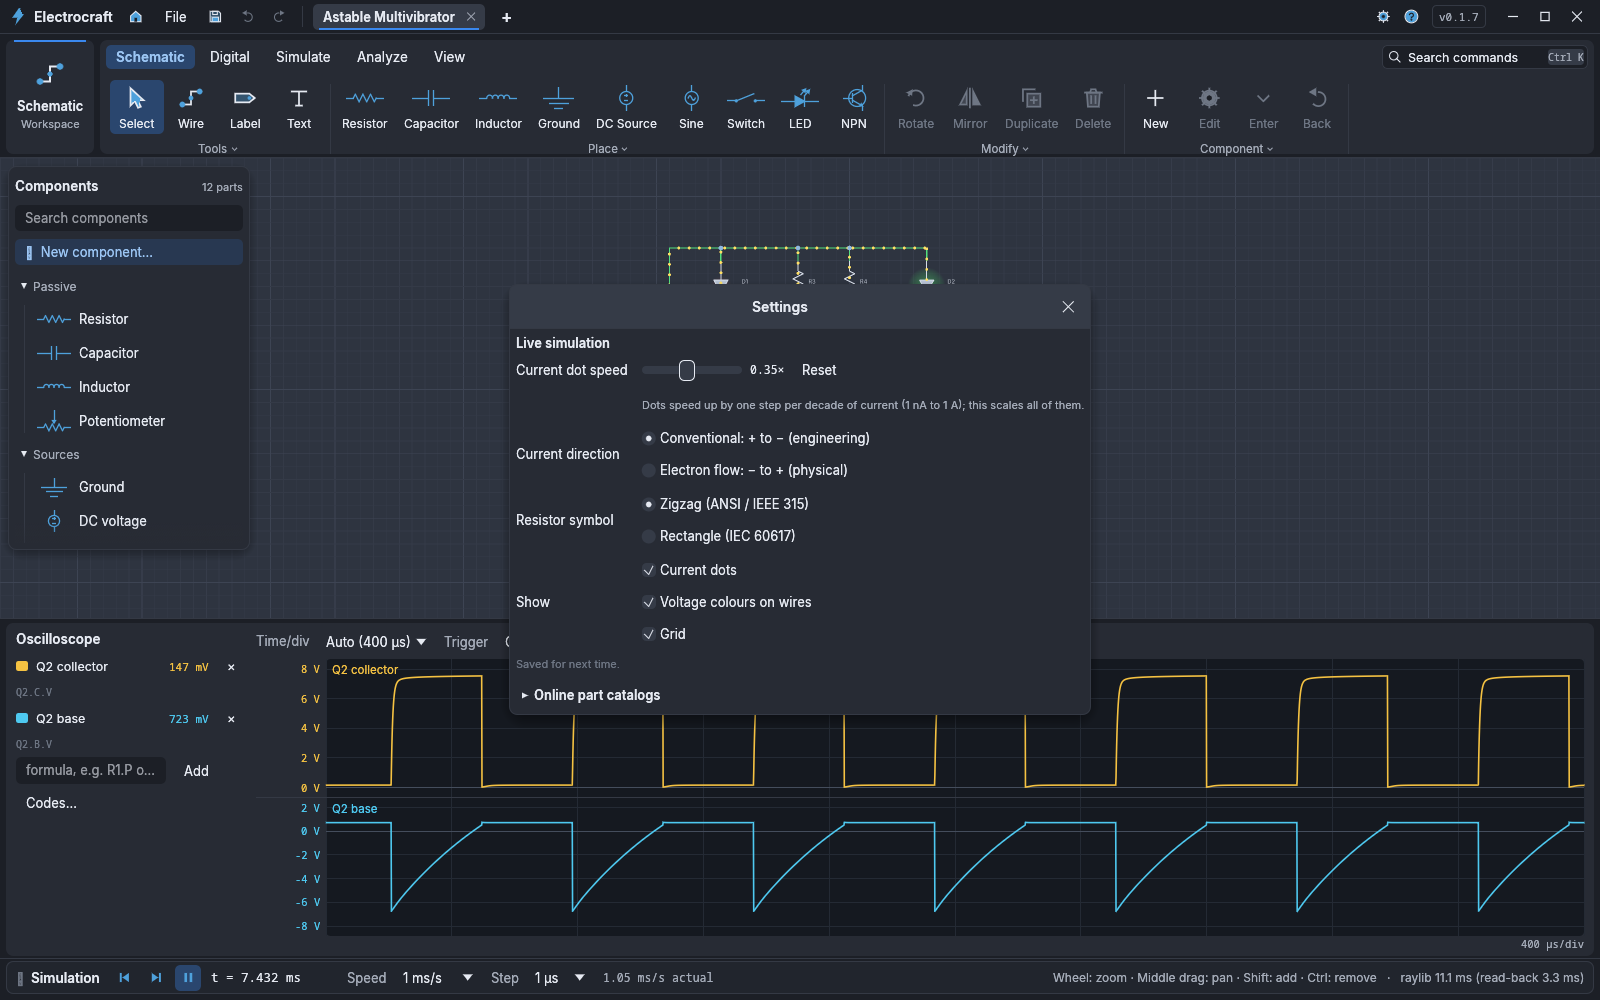
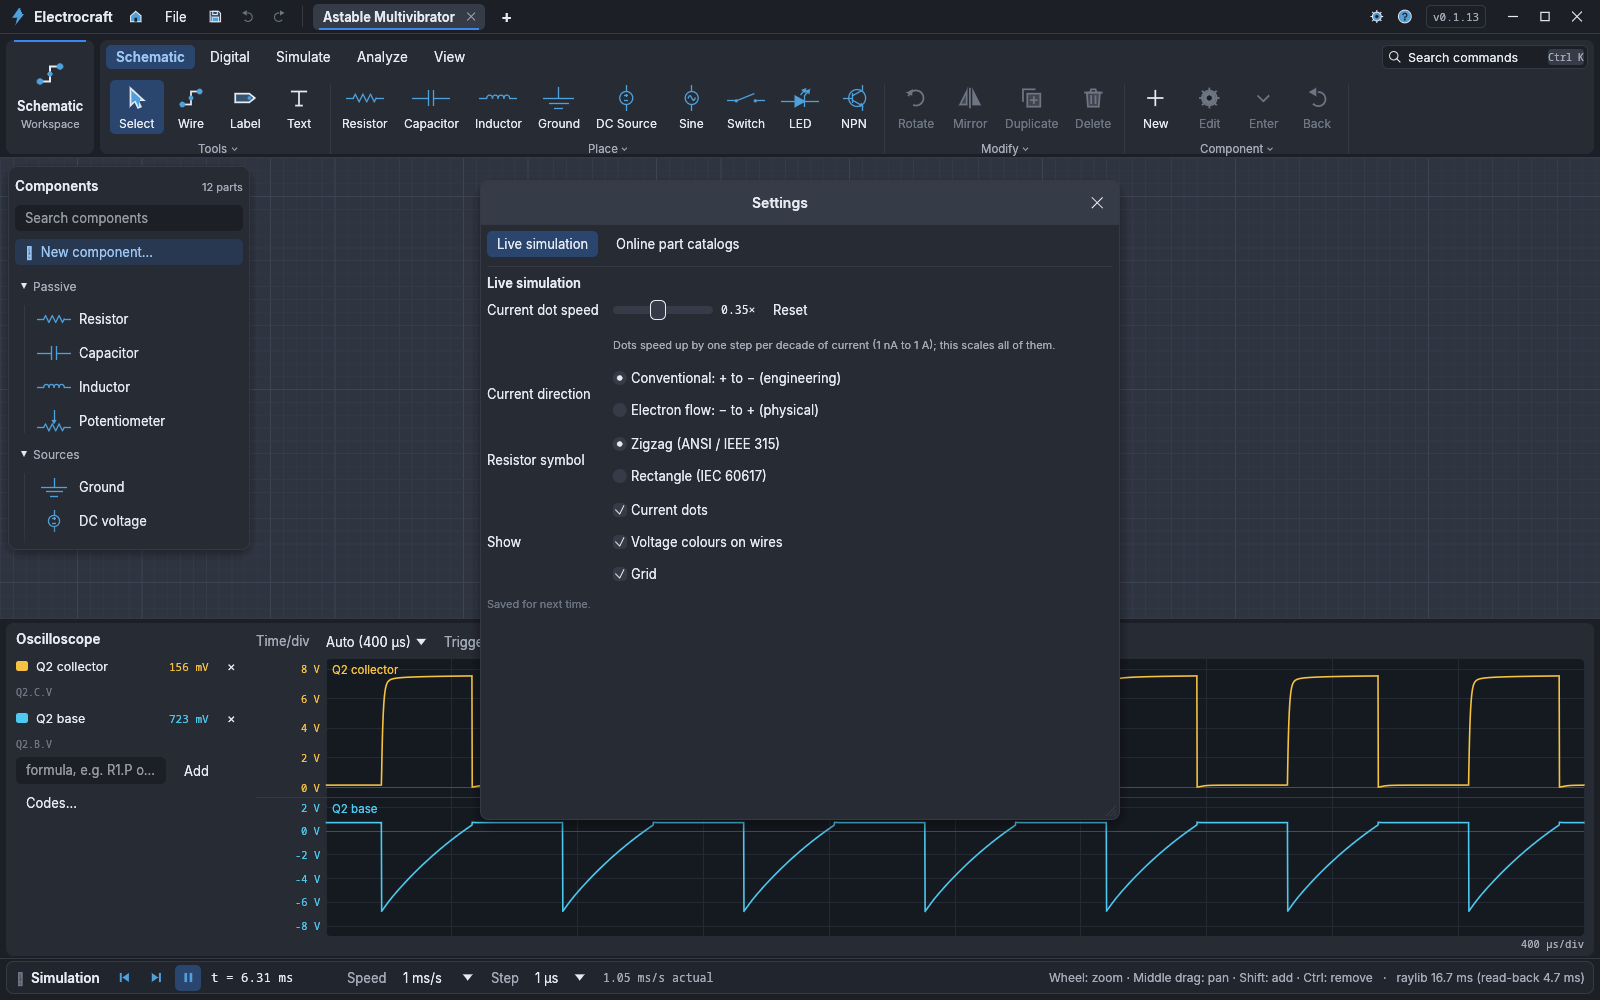
fix: give catalog settings a full-height tab in a resizable dialog; 0.1.13

diff --git a/crates/ecs-app/src/chrome.rs b/crates/ecs-app/src/chrome.rs
@@ -2278,14 +2278,35 @@ impl App {
             "settings" => "Settings",
             _ => "Problems",
         };
-        egui::Window::new(RichText::new(title).font(theme::bold(14.0)))
+        let mut window = egui::Window::new(RichText::new(title).font(theme::bold(14.0)))
             .open(&mut open)
             .collapsible(false)
-            .resizable(false)
-            .anchor(Align2::CENTER_CENTER, vec2(0.0, 0.0))
-            .show(ctx, |ui| match which {
+            .resizable(which == "settings")
+            .anchor(Align2::CENTER_CENTER, vec2(0.0, 0.0));
+        if which == "settings" {
+            window = window
+                .default_size(vec2(640.0, 640.0))
+                .min_size(vec2(520.0, 360.0));
+        }
+        window.show(ctx, |ui| match which {
                 "settings" => {
-                    ui.set_width(380.0);
+                    let page_id = ui.make_persistent_id("settings_catalogs");
+                    let mut catalogs = ui.data_mut(|data| data.get_temp::<bool>(page_id).unwrap_or(false));
+                    ui.horizontal(|ui| {
+                        ui.selectable_value(&mut catalogs, false, "Live simulation");
+                        ui.selectable_value(&mut catalogs, true, "Online part catalogs");
+                    });
+                    ui.data_mut(|data| data.insert_temp(page_id, catalogs));
+                    ui.separator();
+                    // Each page gets the full remaining height, including on small screens.
+                    egui::ScrollArea::vertical()
+                        .id_salt(("settings-page", catalogs))
+                        .auto_shrink([false, false])
+                        .show(ui, |ui| {
+                    if catalogs {
+                        self.catalog_settings(ui);
+                        return;
+                    }
                     ui.label(RichText::new("Live simulation").font(theme::bold(13.0)));
                     let before = (self.settings.clone(), self.grid, self.volt_colors, self.current_dots);
                     egui::Grid::new("settings").num_columns(2).spacing(vec2(14.0, 8.0)).show(ui, |ui| {
@@ -2330,12 +2351,7 @@ impl App {
                     }
                     ui.add_space(4.0);
                     ui.label(RichText::new("Saved for next time.").color(c::TEXT_FAINT).small());
-                    ui.add_space(6.0);
-                    egui::CollapsingHeader::new(RichText::new("Online part catalogs").font(theme::bold(13.0)))
-                        .default_open(self.settings.catalogs.master)
-                        .show(ui, |ui| {
-                            egui::ScrollArea::vertical().max_height(440.0).show(ui, |ui| self.catalog_settings(ui));
-                        });
+                    });
                 }
                 "about" => {
                     ui.set_width(380.0);

diff --git a/scripts/capture_screenshots.py b/scripts/capture_screenshots.py
@@ -197,6 +197,18 @@ def main():
         s.shot("29-settings.png", wait=2.0)
         s.close()
 
+        # Full-height catalog settings with provider options, without any search.
+        cfg = home / ".config" / "electrocraft"
+        cfg.mkdir(parents=True, exist_ok=True)
+        (cfg / "settings.json").write_text(json.dumps({"catalogs": {
+            "master": True, "enabled": ["jlcpcb", "digikey", "mouser", "tme", "farnell"]}}))
+        s = run("--sample", "astable", commands=[{"id": "app.settings", "args": {}}])
+        s.x("mousemove", 675, 244, "click", 1)
+        s.x("mousemove", 1300, 860)
+        s.shot("36-settings-catalogs.png", wait=1.0)
+        s.close()
+        (cfg / "settings.json").unlink()
+
         # Microcontroller: the PIC sample and its program editor.
         s = run("--sample", "pic-blink")
         s.x("mousemove", 1500, 900)

diff --git a/ELECTROCRAFT-PLAN.SPEC.md b/ELECTROCRAFT-PLAN.SPEC.md
@@ -538,7 +538,7 @@ The shell copies SolidCraft's structure and palette so the Craft apps feel like 
 - **Navigation toolbar** (floating, bottom centre of the canvas): Select, Pan, Wire · Fit, Zoom in, Zoom out · Grid, Voltage colours, Current dots.
 - **Simulation bar** (bottom, in the place of SolidCraft's History bar): Reset, Step, Run/Pause, simulated time, speed and time step pickers, achieved speed, a problems button, and on the right the tool hint (Wirecraft style) and canvas render timing.
 - **Scope** (9.5): docked at the bottom above the Simulation bar (resizable), or floating in its own resizable window, whenever it has channels.
-- **Settings** (gear icon, `app.settings`): current dot speed (logarithmic slider, `view.dot_speed`), **current direction** (conventional + to −, the default, or electron flow − to +), **resistor symbol** (ANSI/IEEE 315 zigzag or IEC 60617 rectangle, also for the potentiometer; pins unchanged), current dots, voltage colours and grid; kept in `settings.json` in the config folder, as are the ribbon toggles. ![Settings](docs/screenshots/29-settings.png)
+- **Settings** (gear icon, `app.settings`): a resizable dialog with **Live simulation** and **Online part catalogs** tabs. Each tab uses the full remaining height with its own scrolling; catalog credentials and provider options no longer share a short nested list below simulation controls. Live simulation includes current dot speed (logarithmic slider, `view.dot_speed`), **current direction** (conventional + to −, the default, or electron flow − to +), **resistor symbol** (ANSI/IEEE 315 zigzag or IEC 60617 rectangle, also for the potentiometer; pins unchanged), current dots, voltage colours and grid; kept in `settings.json` in the config folder, as are the ribbon toggles. ![Settings](docs/screenshots/29-settings.png)
 - **Documents and tabs:** New, Open, recent files and samples always open a new tab; opening a file that is already open switches to its tab. Each tab keeps its own document, undo history, selection, view, scope channels and settings, and component-editing stack. Only the shown tab simulates: switching restarts that tab's simulation from its operating point. Closing a modified tab asks Save / Discard / Cancel; quitting lists every modified document and offers **Save All**. Closing the last tab returns to the Start screen. (`DocTab` in `crates/ecs-app/src/app.rs`; a test opens, edits, switches, closes and reopens tabs.)
 - **Start screen** (Home, Esc returns to the document): blue sidebar (Back to document, Start, New, Open, Save, Save As, Export netlist, Keyboard shortcuts, About), and New cards, Recent files and Samples with live-rendered thumbnails.
 - **Command palette** (`Ctrl+K`): every command and every component, filtered as you type, arrow keys and Enter.
@@ -645,7 +645,7 @@ All actions are `Cmd`s with a stable id and JSON arguments in one registry (`cra
 
 ### 9.8 Online part catalogs (D17–D19, add-on spec ADD-01)
 
-- **Settings › Online part catalogs:** "Allow online part catalogs" (off by default) and one switch per provider. Turning a provider on first shows what will be sent and to whom, with its terms; Cancel leaves it off. Per provider: credential fields saved to the system keychain (Forget removes them), region or store (DigiKey `site,currency`, TME `country,currency,language`, Farnell store id), Delete cached data, and the attribution its terms require. JLCPCB can also search a downloaded jlcparts `cache.sqlite3` offline. Turning anything off cancels requests in flight. Nothing is contacted while the switches are off; the worker thread is not even started.
+- **Settings › Online part catalogs:** "Allow online part catalogs" (off by default) and one switch per provider. Turning a provider on first shows what will be sent and to whom, with its terms; Cancel leaves it off. Per provider: credential fields saved to the system keychain (Forget removes them), region or store (DigiKey `site,currency`, TME `country,currency,language`, Farnell store id), Delete cached data, and the attribution its terms require. JLCPCB can also search a downloaded jlcparts `cache.sqlite3` offline. Turning anything off cancels requests in flight. Nothing is contacted while the switches are off; the worker thread is not even started. ![Catalog settings](docs/screenshots/36-settings-catalogs.png)
 - **Parts panel** (File › Parts Catalogs…, `parts.open`): provider selector (one provider, or *All enabled* grouped by manufacturer part number with each source kept distinct), search text, filters (category, package, in stock, active only, one parametric range in engineering notation), per-provider counts and errors inline, a results table (vendor, part and order code, stock, unit price, lifecycle or JLC basic/extended, manufacturer, description) and a detail pane (prices, normalized parameters, datasheet and product links, attribution). **Place** puts the part on the canvas: a known model when the number matches the part-number database (`BC547B,112` → BC547B, `SN74HC00N` → 74HC00), else the class's component with the part's values (R, C with ESR kept as sourcing data, L with series resistance, zener BV, LED colour), transistors, op-amps, comparators and timers as *generic models*; other parts are assigned, not placed. **Assign to selection** records the part as the sourcing of the selected parts; **Apply** shows the parameter differences and applies them.
 - **Inspector › Sourcing:** manufacturer part number and manufacturer, preferred vendor (any of the five, or none, even when disabled), each vendor's order code with a link, last unit price, stock and its age; Search at vendor, Find at all vendors, Refresh, Clear, and Apply parameters from a looked-up part. With several parts selected: set the preferred vendor for all, and find vendors for those without.
 - **BOM** (File › Export Bill of Materials…, `bom.export_path`): one CSV with lines grouped by identical parts (quantity, references, component, value, manufacturer part, manufacturer, preferred vendor, order code, unit price, currency, price quantity, stock, date checked, link) and one file per preferred vendor (JLCPCB's assembly BOM columns; quantity and order code for the others). Instruments and ideal sources are left out.

diff --git a/docs/manual/catalogs.md b/docs/manual/catalogs.md
@@ -5,10 +5,13 @@ bill of materials.
 ## Consent comes first
 
 Catalogs are **off** until the user turns on "Allow online part catalogs" and a
-provider in Settings (with a confirmation naming what is sent). You cannot change
-this, and there is no tool for it. If `parts_search` says catalogs are off, tell the
+provider in **Settings → Online part catalogs** (with a confirmation naming what is
+sent). You cannot change this, and there is no tool for it. If `parts_search` says catalogs are off, tell the
 user which Settings page to open; do not retry. Keys live in the system keychain.
 Only JLCPCB works without a key; the others need the user's own keys.
+
+The catalog tab fills the resizable Settings dialog; scroll to reach further
+providers, credential fields and regional options.
 
 ## Searching
 
